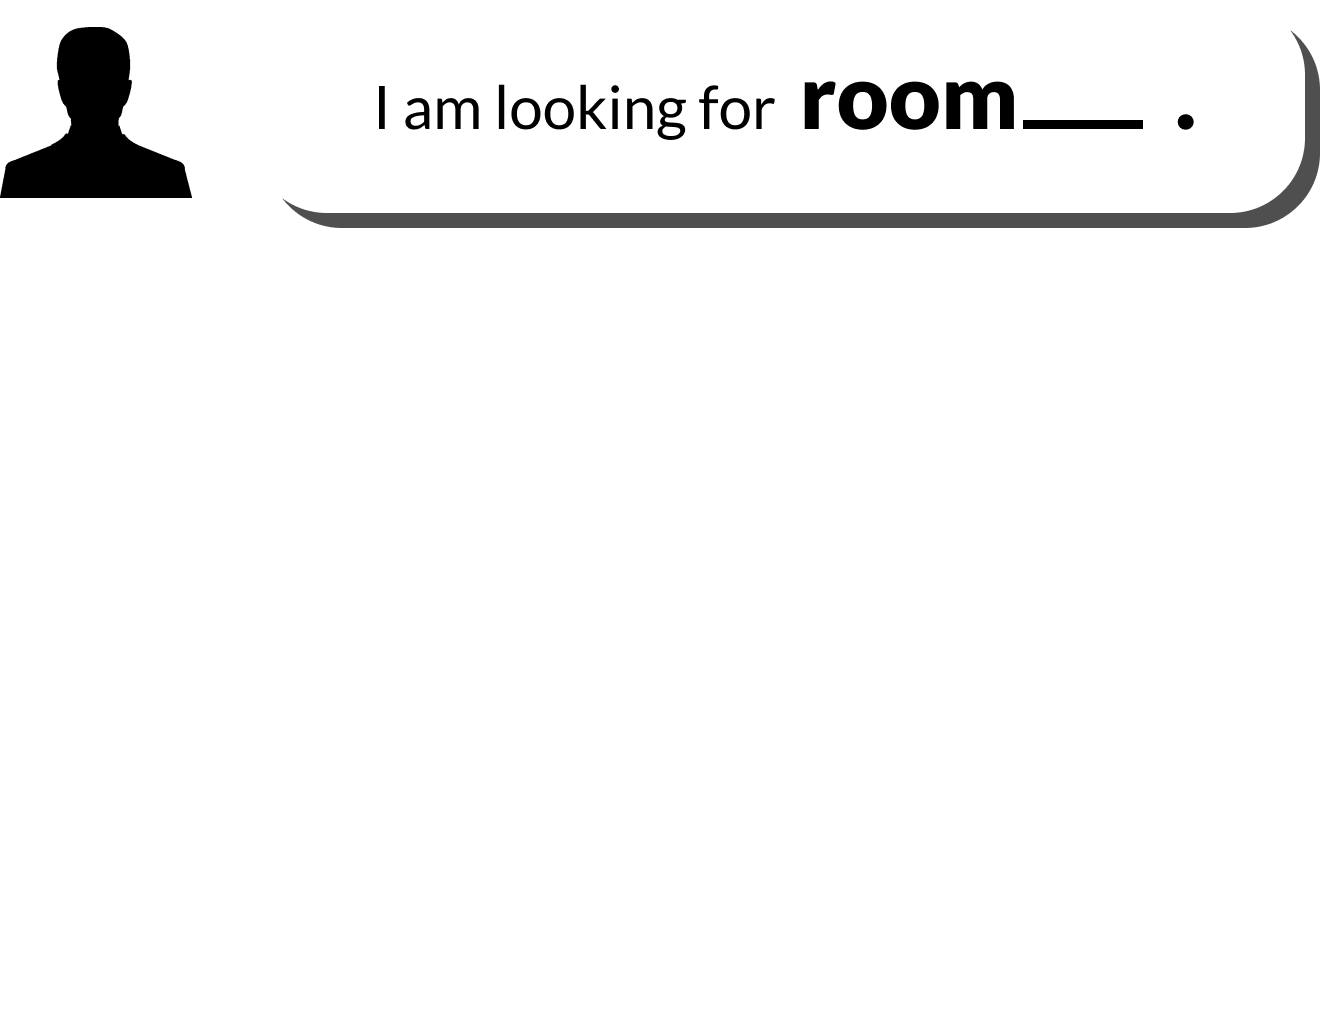
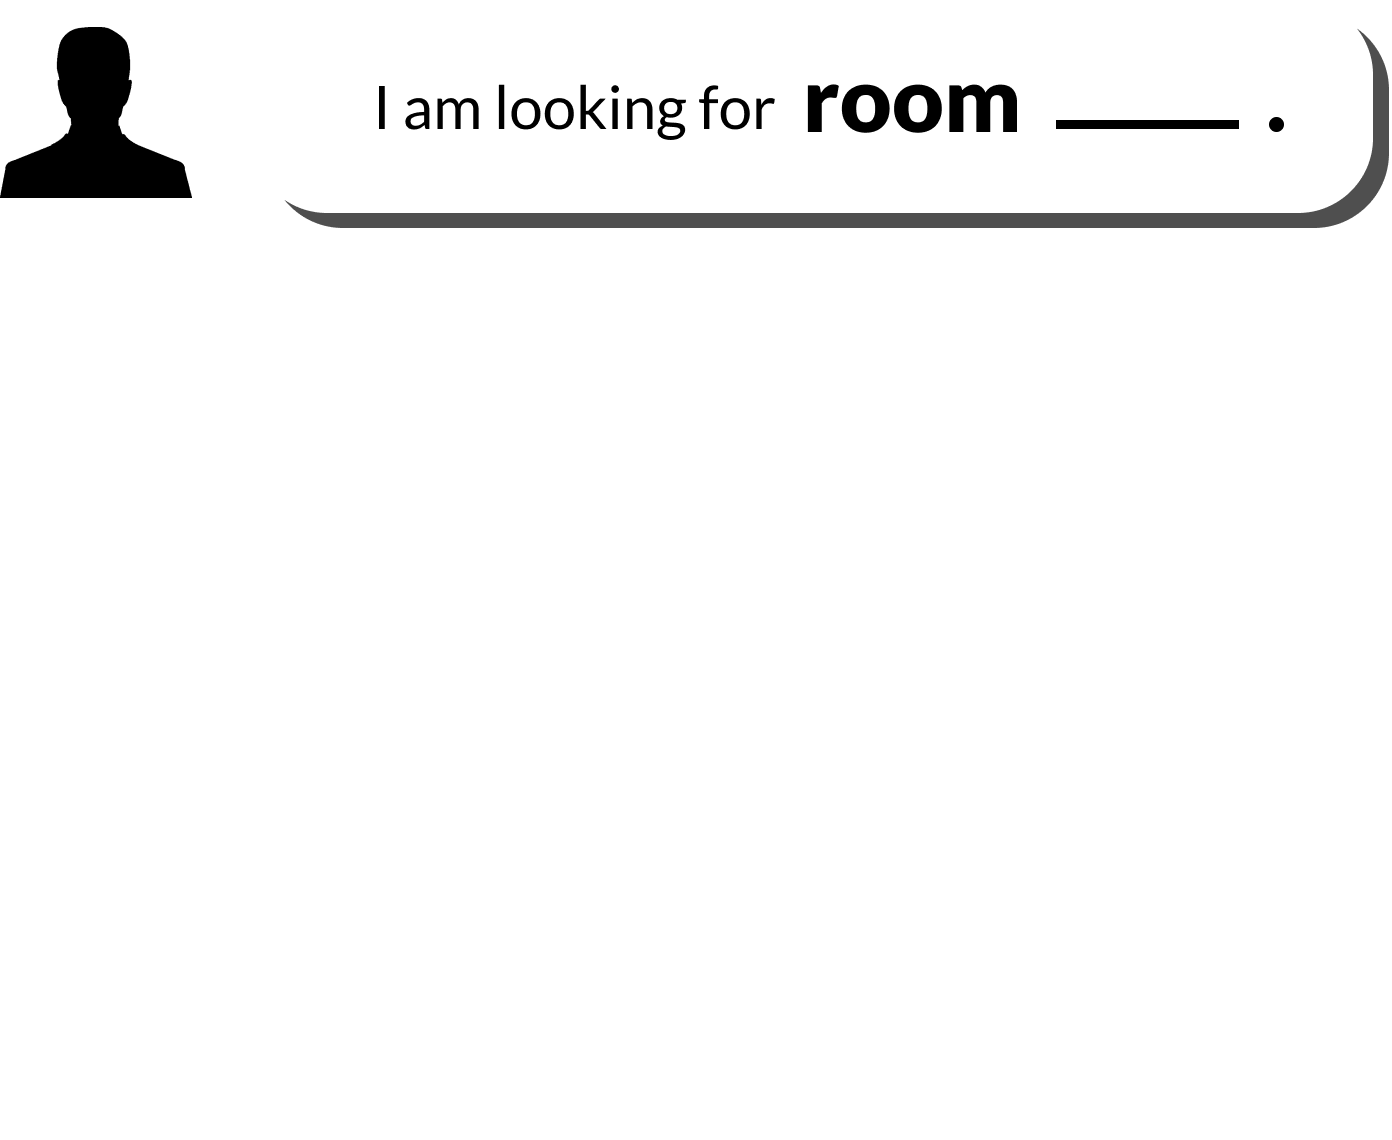
Fixed UI Bubbles
looping prefixes

diff --git a/main.js b/main.js
@@ -86,9 +86,29 @@ window.onload = function(){
     var caption = "";
     var resultsCaption = "";
 
-    
-    
     var validPrefix;
+    
+    function loopPrefix (){
+        
+        var text = $(".prefix-dynamicText");
+        var textIndex = -1;
+        $(".left-bubble .prefix-dynamicText").addClass("slideInLeft");
+        
+        setTimeout(function(){
+            $(".left-bubble .prefix-dynamicText").removeClass("slideInLeft");
+        }, 1000);
+        
+        function showNextText() {
+            ++textIndex;
+            text.eq(textIndex % text.length)
+                .fadeIn(500)
+                .delay(2500)
+                .fadeOut(500, showNextText);
+        }
+        
+        showNextText();
+        
+    }
     
     // Function to check if an object is empty
     function isEmpty(obj) {
@@ -693,11 +713,13 @@ window.onload = function(){
         
         systemTimer();
         
-//        systemPause(welcome, welcome.split(' ').length);
+        
         
         caption = welcome;
         message.text = welcome;
         window.speechSynthesis.speak(message);
+        
+        
         
         roomLocator = function(room_num) {  
                         
@@ -768,6 +790,7 @@ window.onload = function(){
             commandManager("OptionsView");
             timeLeft = grantTime;
             $('.modal-clarifyPrefix').show();
+            $('.modal-options').addClass('animated fadeInDown');
             
             clarifyPrefix_ACTIVE = true;
             
@@ -1116,10 +1139,7 @@ window.onload = function(){
                     return;
                 }
                 
-            }
-            
-            
-
+            }            
         };
         
         var yourWelcome = function(){
@@ -1256,6 +1276,8 @@ window.onload = function(){
             }
             ajaxhttp.send(null);
         }
+        
+        loopPrefix();
 
     });
     

diff --git a/index.html b/index.html
@@ -9,7 +9,7 @@
     <link rel="stylesheet" href="https://maxcdn.bootstrapcdn.com/bootstrap/3.3.7/css/bootstrap.min.css" integrity="sha384-BVYiiSIFeK1dGmJRAkycuHAHRg32OmUcww7on3RYdg4Va+PmSTsz/K68vbdEjh4u" crossorigin="anonymous">
     
     
-    <link href="https://fonts.googleapis.com/css?family=Lato:300,400" rel="stylesheet">
+    <link href="https://fonts.googleapis.com/css?family=Lato:300,900" rel="stylesheet">
 
 
     <!--  jQUERY -->
@@ -38,6 +38,8 @@
 </head>
   
     <body>
+        
+        <div class="blue-block"></div>
         
          <div class="systemModal modal-bg">
             <div class="modal-options">
@@ -126,7 +128,7 @@
                 </div>
             </div>
             
-            <div class="blue-block"></div>
+            
             
             <div class="menu-block">
 <!--                <div id="timeLeft"></div>-->
@@ -140,9 +142,13 @@
                     <div class="clear"></div>
                     <div class="col-sm-4 left-bubble">
                         <img class="bubble animated" src="css/images/shades/left.png">
+                        <p class="prefix-dynamicText animated">professor</p>
+                        <p class="prefix-dynamicText">doctor</p>
+                        <p class="prefix-dynamicText">mr/ms</p>
                     </div>
                     <div class="col-sm-4 center-bubble">
                         <img class="bubble animated" src="css/images/shades/center.png">
+                        
                     </div>
                     <div class="col-sm-4 right-bubble">
                         <img class="bubble animated" src="css/images/shades/right.png">

diff --git a/css/main.css b/css/main.css
@@ -89,8 +89,8 @@ body
 
 .left-bubble .bubble, .right-bubble .bubble
 {
-    width: 85%;
-    margin-top: 30%;
+    width: 600PX;
+    margin-top: 26%;
 }
 .left-bubble .bubble
 {
@@ -105,7 +105,7 @@ body
 .center-bubble .bubble
 {
     width: 70%;
-    margin: 5% 15% 0 10.45%;
+    margin: 5% 15% 0 9.45%;
 }
 .bottom-block .mic
 {
@@ -415,7 +415,7 @@ img
     background-color: #2C3746;
     
     width: 100%;
-    height: 300px;
+    height: 1000px;
     
 }
 
@@ -431,7 +431,7 @@ img
     width: 100%;
     
     
-    padding: 300px 0 0 0;
+    padding: 330px 0 0 0;
     height: 1027px;
     
     position: absolute;
@@ -515,4 +515,18 @@ z-index: 5;
 
 #dynamic-options .col-sm-4, #dynamic-options .col-sm-8{
     margin-bottom: 45px;
+}
+
+.prefix-dynamicText{
+    font-size: 26px;
+    position: absolute;
+    
+    right:-55.5px;
+    top: 175px;
+    
+    width: 112px;
+    font-weight: 900;
+    
+    text-align: center;
+    display:none;
 }
